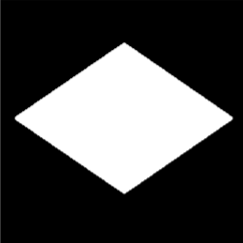
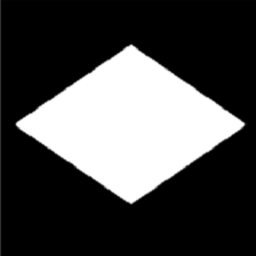
add

diff --git a/test.m b/test.m
@@ -58,17 +58,18 @@ upper_bound = 0.9999;
 % hbs_mu = Tools.mu_chop(hbs_mu, mu_upper_bound);
 n = 200;
 [disk_face, disk_vert] = Mesh.rect_mesh(n, n, 1);
+dis = 1/(n-1);
 x = disk_vert(:,1);
 y = disk_vert(:,2);
 z = x + 1i*y;
 zt = x - 1i*y;
-% he = x.^4 - 1*y.^4 + 5i * x .* y.^2 - 1i * x.^2 .* y + 3*x.^2 .* y;
-he = z.^2 - 1*zt.^2 + 0*1i * z .* zt;
-% he = (x+1i*y).^4 + (x-1i*y).^3;
-% he = x.^2 - 1*y.^2 + 3i * x .* y;
-p = 0.6+0.6i;
+he = x.^3 - 1*y.^3 + 5i * x .* y.^2 - 1i * x.^2 .* y + 3*x.^2 .* y;
+% he = z.^2 - 1*zt.^2 + 0*1i * z .* zt;
+% he = (x+1i*y).^3;
+% he = x.^2 - 2*y.^2 + 3i * x .* y;
+% p = 0.6+0.6i;
 % he = (he-p)./(1-conj(p)*he);
-[dx,dy] = gradient(reshape(he,n,n), 1/n);
+[dx,dy] = gradient(reshape(he,n,n), dis);
 dz = (dx - 1i*dy)/2;
 dp = (dx + 1i*dy)/2;
 hbs_p = dp ./ dz;
@@ -82,13 +83,13 @@ log_hbs = log(hbs_v);
 % hbs_v = log(hbs_v);
 % hbs_v(1) = hbs_v(2);
 % lp_he = Op.laplacian * he;
-lp_he = del2(reshape(he,n,n), 1/n);
+lp_he = del2(reshape(he,n,n), dis);
 % lp_hbs = Op.laplacian * hbs_v;
-lp_hbs = del2(reshape(log_hbs,n,n), 1/n);
+lp_hbs = del2(reshape(log_hbs,n,n), dis);
 % lp_hbs_imag = Op.laplacian * imag(hbs_v);
-lp_hbs_imag = del2(reshape((imag(log_hbs)),n,n), 1/n);
+lp_hbs_imag = del2(reshape((imag(log_hbs)),n,n), dis);
 % lp_hbs_real = Op.laplacian * real(hbs_v);
-lp_hbs_real = del2(reshape((real(log_hbs)),n,n), 1/n);
+lp_hbs_real = del2(reshape((real(log_hbs)),n,n), dis);
 
 mean(abs(lp_he), 'all')
 mean(abs(lp_hbs), 'all')
@@ -109,3 +110,4 @@ mean(abs(lp_hbs_real), 'all')
 % set(gcf,'unit','normalized','position',[0 0 1 1])
 % Plot.imshow(init_moving);
 % drawnow();
+

diff --git a/get_mean_hbs.m b/get_mean_hbs.m
@@ -13,7 +13,7 @@ hbs_mesh_density = 50;
 smooth_eps = 5e-3;
 mu_upper_bound = 0.9999;
 input_dir = 'img/hbs_seg/brains/bt/';
-mean_img_path = 'img/hbs_seg/output/mean.png';
+mean_img_path = 'img/hbs_seg/output/mean_bt.png';
 mean_hbs_path = 'vars/mean_bt.mat';
 
 
@@ -24,7 +24,7 @@ unit_disk = zeros(m, n);
 unit_disk(Tools.norm(normal_vert) <= (1 + smooth_eps)) = 1;
 
 start_num = 1;
-num = 5;
+num = 10;
 hbs_cell = cell(num, 1);
 hbs_mu_cell = cell(num, 1);
 reconstructed_cell = cell(num, 1);
@@ -33,6 +33,10 @@ map_cell = cell(num, 1);
 for i=start_num:start_num+num-1
 static_path = [input_dir, num2str(i), '.png'];
 img_path = [input_dir, num2str(i), '.m.png'];
+
+if ~isfile(static_path) || ~isfile(img_path)
+    continue
+end
 
 img = Mesh.imread(img_path);
 img = double(img >= 0.5);
@@ -73,6 +77,7 @@ Plot.pri_plot_mu(hbs_mu, face, vert);
 colormap(sp1, "gray");
 colormap(sp2, "gray");
 drawnow;
+saveas(gcf, replace(mean_img_path, 'mean', int2str(i)));
 
 hbs_cell{i} = hbs;
 hbs_mu_cell{i} = hbs_mu;
@@ -81,9 +86,14 @@ map_cell{i} = map;
 end
 
 mean_hbs = zeros(size(hbs));
+count = 0;
 for i=start_num:start_num+num-1
-    mean_hbs = mean_hbs + hbs_cell{i} / num;
+    if size(hbs_cell{i})
+        mean_hbs = mean_hbs + hbs_cell{i};
+        count = count + 1;
+    end
 end
+mean_hbs = mean_hbs / count;
 
 [reconstructed_bound, inner, outer, extend_vert, ~] = HBS_reconstruct(mean_hbs, disk_face, disk_vert, m, n, mesh_density);
 

diff --git a/dependencies/bc_metric.m b/dependencies/bc_metric.m
@@ -14,7 +14,7 @@ function mu = bc_metric(face, vertex, map, dimension)
 %
 % Outputs
 % A : The corresponding Beltrami coefficients.
-%
+%   
 % Function is written by Jeffery Ka Chun Lam (2013)
 % www.jefferykclam.com
 % Reference : 
@@ -84,9 +84,10 @@ function [e1, e2, e3] = GetEdge(vertex,face)
 end
 
 function area = GetSignedArea_edge(e1, e2)
-    xb = -e1(1,:);
-    yb = -e1(2,:);
     xa = e2(1,:);
+    xb = -e1(1,:);
     ya = e2(2,:);
+    yb = -e1(2,:);
+    
     area = ( xa.*yb - xb.*ya )/2;
 end
